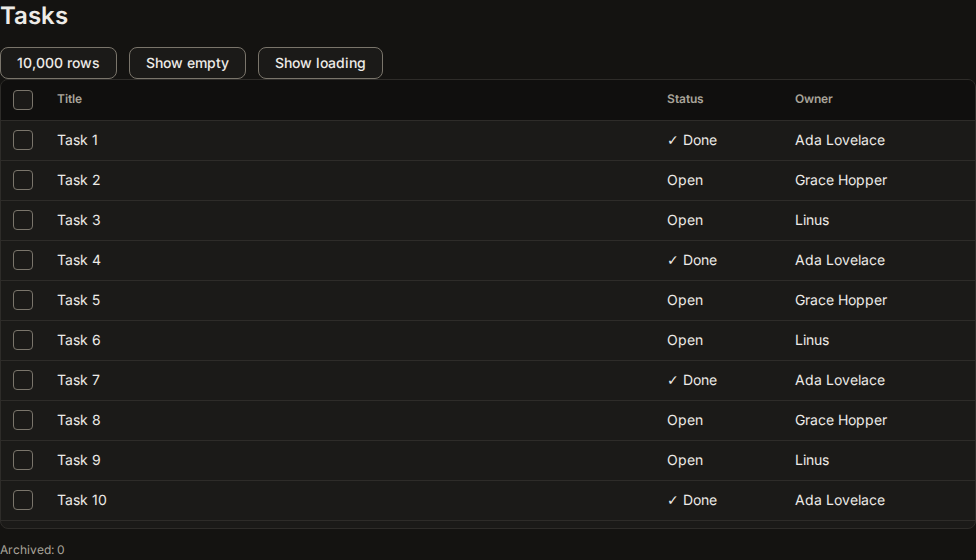
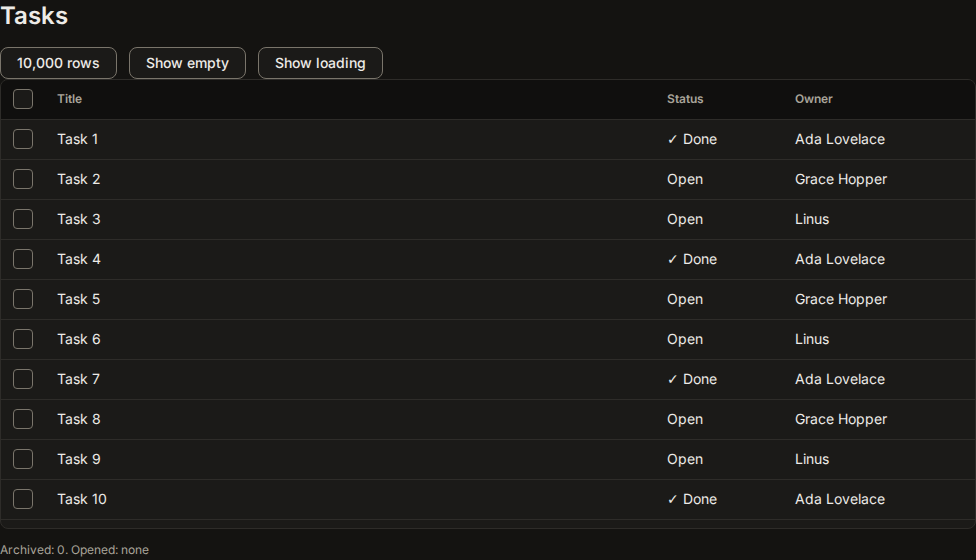
Fix DataTable review findings
Count only selected ids that are still in the rows, so a filter or an
empty list cannot leave a bar that acts on missing rows. Give focus
back to the active row when the bar closes. Make the head and the rows
share one width, so a narrow screen scrolls sideways with aligned
columns. Keep the focused row clear of the bar. Let text fields, selects
and editable cells keep their keys. Add contrast pairs for text and
control borders on a selected row. Add tests for each case.

diff --git a/src/components/data-table.tsx b/src/components/data-table.tsx
@@ -1,4 +1,4 @@
-import { useCallback, useEffect, useId, useLayoutEffect, useMemo, useRef, useState, type CSSProperties, type KeyboardEvent, type ReactNode } from "react";
+import { useCallback, useEffect, useLayoutEffect, useMemo, useRef, useState, type CSSProperties, type KeyboardEvent, type ReactNode } from "react";
 import { cx } from "../cx.js";
 import { Button } from "./button.js";
 import { EmptyState } from "./files.js";
@@ -10,7 +10,7 @@ export interface DataTableColumn<T> {
   /** The column name. Always text, so a screen reader can read it. */
   header: string;
   cell: (row: T) => ReactNode;
-  /** A CSS grid track, for example `12rem`. The default shares the rest of the width. */
+  /** A CSS length, for example `12rem`. The default shares the rest of the width, and is never under 8rem. */
   width?: string;
 }
 
@@ -44,12 +44,14 @@ export interface DataTableProps<T> {
 }
 
 const CHECK_WIDTH = "2.75rem";
+const FLEX_MIN = "8rem";
+const BAR_GAP = 12;
 const PLACEHOLDERS = 8;
 const noRows: readonly never[] = [];
 
 /**
  * A table for many rows. Only the rows in view are in the page, so 10,000 rows scroll smoothly.
- * It is a grid: one tab stop, then arrow keys, Home, End, and Page Up and Down move between rows.
+ * It is a grid. The rows are one tab stop, and arrow keys, Home, End, and Page Up and Down move between them.
  * Space selects a row, Shift with a click or Space selects a range, Enter opens a row, and Escape clears the selection.
  */
 export function DataTable<T>({
@@ -58,7 +60,7 @@ export function DataTable<T>({
 }: DataTableProps<T>) {
   if (label.trim() === "") throw new Error("A data table needs a non-empty label.");
   const [own, setOwn] = useState<ReadonlySet<string>>(defaultSelected ?? new Set());
-  const selected = selectedProp ?? own;
+  const stored = selectedProp ?? own;
   const setSelected = useCallback((next: ReadonlySet<string>) => {
     setOwn(next);
     onSelectedChange?.(next);
@@ -79,12 +81,36 @@ export function DataTable<T>({
     return () => observer.disconnect();
   }, []);
 
+  // Callers often pass an inline getRowId. Keep it in a ref, so a scroll does not read every row again.
+  const idOf = useRef(getRowId);
+  idOf.current = getRowId;
+  const ids = useMemo(() => items.map((row) => idOf.current(row)), [items]);
+  // A selection can outlive its rows, for example after a filter. Only rows that are here count.
+  const selected = useMemo(() => {
+    const live = new Set<string>();
+    for (const id of ids) if (stored.has(id)) live.add(id);
+    return live as ReadonlySet<string>;
+  }, [ids, stored]);
+  const allSelected = count > 0 && selected.size === count;
+  const someSelected = selected.size > 0 && !allSelected;
   const [activeRaw, setActive] = useState(0);
   const active = Math.min(activeRaw, Math.max(0, count - 1));
   const wantFocus = useRef(false);
   const anchor = useRef(0);
   const barVisible = selectable && selected.size > 0 && !loading;
-  const barHeight = barVisible ? 64 : 0;
+  const [barSize, setBarSize] = useState(0);
+  const barHeight = barVisible ? barSize + BAR_GAP : 0;
+  const bar = useRef<HTMLDivElement>(null);
+  // The bar grows when its buttons wrap, so watch its size.
+  useLayoutEffect(() => {
+    const el = bar.current;
+    if (!el) return;
+    const measure = () => setBarSize(el.offsetHeight);
+    measure();
+    const observer = new ResizeObserver(measure);
+    observer.observe(el);
+    return () => observer.disconnect();
+  }, [barVisible]);
 
   const range = windowRange(scrollTop, viewport, rowHeight, count);
   // The row that has focus stays drawn when it scrolls out of view, so focus is not lost.
@@ -102,9 +128,19 @@ export function DataTable<T>({
     el.querySelector<HTMLElement>(`[data-index="${active}"]`)?.focus({ preventScroll: true });
   });
 
-  const ids = useMemo(() => items.map(getRowId), [items, getRowId]);
-  const allSelected = count > 0 && ids.every((id) => selected.has(id));
-  const someSelected = !allSelected && ids.some((id) => selected.has(id));
+  // The bar covers the last rows while it shows. Keep the active row clear of it, and give focus back to the grid when the bar and its focused button go.
+  const barWas = useRef(false);
+  useLayoutEffect(() => {
+    const el = scroller.current;
+    if (barVisible && el) {
+      const next = scrollToRow(active, el.scrollTop, el.clientHeight, rowHeight, rowHeight, barHeight);
+      if (next !== el.scrollTop) el.scrollTop = next;
+    }
+    if (barWas.current && !barVisible && count > 0 && (!document.activeElement || document.activeElement === document.body)) {
+      el?.querySelector<HTMLElement>(`[data-index="${active}"]`)?.focus({ preventScroll: true });
+    }
+    barWas.current = barVisible;
+  }, [barVisible, barHeight]); // eslint-disable-line react-hooks/exhaustive-deps
   const headerCheck = useRef<HTMLInputElement>(null);
   useEffect(() => {
     if (headerCheck.current) headerCheck.current.indeterminate = someSelected;
@@ -132,6 +168,8 @@ export function DataTable<T>({
     const target = event.target as HTMLElement;
     const row = target.closest<HTMLElement>('[role="row"][data-index]');
     if (!row || count === 0) return;
+    // A text field, select, or editable cell keeps its own keys.
+    if (target.isContentEditable || target instanceof HTMLTextAreaElement || target instanceof HTMLSelectElement) return;
     if (target instanceof HTMLInputElement && target.type !== "checkbox") return;
     const index = Number(row.dataset.index);
     const page = Math.max(1, Math.floor((viewport - rowHeight) / rowHeight) - 1);
@@ -160,9 +198,10 @@ export function DataTable<T>({
     event.preventDefault();
   };
 
-  const cols = [selectable ? CHECK_WIDTH : null, ...columns.map((c) => c.width ?? "minmax(0, 1fr)")].filter(Boolean).join(" ");
-  const style = { "--agd-dt-cols": cols, "--agd-dt-row": `${rowHeight}px`, "--agd-dt-height": typeof height === "number" ? `${height}px` : height } as CSSProperties;
-  const headerId = useId();
+  const tracks = [selectable ? CHECK_WIDTH : null, ...columns.map((c) => c.width ?? `minmax(${FLEX_MIN}, 1fr)`)].filter(Boolean).join(" ");
+  // The head and every row share one width. It is the sum of the minimums, so a narrow screen scrolls sideways.
+  const minWidth = `calc(${[selectable ? CHECK_WIDTH : null, ...columns.map((c) => c.width ?? FLEX_MIN)].filter(Boolean).join(" + ")})`;
+  const style = { "--agd-dt-cols": tracks, "--agd-dt-min": minWidth, "--agd-dt-row": `${rowHeight}px`, "--agd-dt-height": typeof height === "number" ? `${height}px` : height } as CSSProperties;
   const nameOf = (row: T) => rowLabel?.(row) ?? getRowId(row);
   const status = loading ? "Loading rows" : selectable && selected.size > 0 ? `${selected.size} of ${count} selected` : "";
 
@@ -183,6 +222,7 @@ export function DataTable<T>({
           onScroll={(event) => setScrollTop(event.currentTarget.scrollTop)}
           onKeyDown={onKeyDown}
         >
+          <div role="presentation" className="agd-datatable__inner">
           <div role="rowgroup" className="agd-datatable__head">
             <div role="row" className="agd-datatable__row" aria-rowindex={1}>
               {selectable && (
@@ -198,7 +238,7 @@ export function DataTable<T>({
                   />
                 </div>
               )}
-              {columns.map((c) => <div key={c.id} role="columnheader" id={`${headerId}-${c.id}`} className="agd-datatable__cell">{c.header}</div>)}
+              {columns.map((c) => <div key={c.id} role="columnheader" className="agd-datatable__cell">{c.header}</div>)}
             </div>
           </div>
           <div role="rowgroup" className="agd-datatable__body" style={{ height: (loading ? PLACEHOLDERS : count) * rowHeight + barHeight }}>
@@ -245,10 +285,11 @@ export function DataTable<T>({
                   );
                 })}
           </div>
+          </div>
         </div>
         {!loading && count === 0 && <div className="agd-datatable__state">{empty ?? <EmptyState title="No rows" description="Nothing is here yet." />}</div>}
         {barVisible && (
-          <div role="region" aria-label="Bulk actions" className="agd-datatable__bar">
+          <div ref={bar} role="region" aria-label="Bulk actions" className="agd-datatable__bar">
             <span className="agd-datatable__bar-count" aria-hidden="true">{selected.size} selected</span>
             <div className="agd-datatable__bar-actions">{bulkActions?.(selected)}</div>
             <Button size="sm" variant="ghost" onClick={() => setSelected(new Set())}>Clear selection</Button>

diff --git a/e2e/data.ui.spec.ts b/e2e/data.ui.spec.ts
@@ -72,7 +72,65 @@ test("select all and a bulk action", async ({ page }) => {
   await expect(bar).toContainText("10000 selected");
   await bar.getByRole("button", { name: "Archive" }).click();
   await expect(page.locator("#archived")).toHaveText("10000");
-  await page.getByRole("checkbox", { name: "Select Task 3", exact: true }).click({ modifiers: ["Shift"] });
   await bar.getByRole("button", { name: "Clear selection" }).click();
   await expect(bar).toHaveCount(0);
+});
+
+test("Shift selects a range from the last row picked", async ({ page }) => {
+  await page.goto("/data");
+  await page.getByRole("checkbox", { name: "Select Task 2", exact: true }).click();
+  await page.getByRole("checkbox", { name: "Select Task 5", exact: true }).click({ modifiers: ["Shift"] });
+  await expect(page.getByRole("region", { name: "Bulk actions" })).toContainText("4 selected");
+  await expect(page.getByRole("row", { name: /Task 4\b/ })).toHaveAttribute("aria-selected", "true");
+  await expect(page.getByRole("row", { name: /Task 6\b/ })).toHaveAttribute("aria-selected", "false");
+});
+
+test("Page Down moves by a page and Enter opens the row", async ({ page }) => {
+  await page.goto("/data");
+  await page.locator('[data-index="0"]').focus();
+  await page.keyboard.press("PageDown");
+  const index = Number(await page.evaluate(() => document.activeElement?.getAttribute("data-index")));
+  expect(index).toBeGreaterThan(4);
+  await page.keyboard.press("Enter");
+  await expect(page.locator("#opened")).toHaveText(`Task ${index + 1}`);
+  await page.keyboard.press("PageUp");
+  await expect(page.locator('[data-index="0"]')).toBeFocused();
+});
+
+test("a selection of rows that are gone does not show a bar", async ({ page }) => {
+  await page.goto("/data");
+  await page.getByRole("checkbox", { name: "Select Task 1", exact: true }).click();
+  await page.getByRole("button", { name: "Show empty" }).click();
+  await expect(page.getByRole("heading", { name: "No rows" })).toBeVisible();
+  await expect(page.getByRole("region", { name: "Bulk actions" })).toHaveCount(0);
+});
+
+test("clearing the selection from the bar keeps focus in the table", async ({ page }) => {
+  await page.goto("/data");
+  await page.locator('[data-index="0"]').focus();
+  await page.keyboard.press("Space");
+  await page.keyboard.press("Tab");
+  await page.keyboard.press("Tab");
+  await expect(page.getByRole("button", { name: "Clear selection" })).toBeFocused();
+  await page.keyboard.press("Enter");
+  await expect(page.locator('[data-index="0"]')).toBeFocused();
+});
+
+test("the bar does not cover the row that has focus", async ({ page }) => {
+  await page.goto("/data");
+  await page.locator('[data-index="0"]').focus();
+  for (let i = 0; i < 8; i++) await page.keyboard.press("ArrowDown");
+  await page.keyboard.press("Space");
+  const row = await page.locator('[data-index="8"]').boundingBox();
+  const bar = await page.getByRole("region", { name: "Bulk actions" }).boundingBox();
+  expect((row?.y ?? 0) + (row?.height ?? 0)).toBeLessThanOrEqual(bar?.y ?? 0);
+});
+
+test("on a narrow screen the headers line up with the cells", async ({ page }) => {
+  await page.setViewportSize({ width: 320, height: 640 });
+  await page.goto("/data");
+  const grid = page.getByRole("grid", { name: "Tasks" });
+  const header = await grid.getByRole("columnheader", { name: "Owner" }).boundingBox();
+  const cell = await grid.getByRole("row", { name: /Task 1\b/ }).getByRole("gridcell").last().boundingBox();
+  expect(Math.abs((header?.x ?? 0) - (cell?.x ?? 99))).toBeLessThan(1);
 });

diff --git a/src/styles/components.css b/src/styles/components.css
@@ -691,9 +691,11 @@
 .agd-datatable { display: grid; gap: var(--agd-space-3); min-width: 0; }
 .agd-datatable__frame { position: relative; border: 1px solid var(--agd-color-border); border-radius: var(--agd-radius-md); background: var(--agd-color-surface); overflow: hidden; }
 .agd-datatable__scroller { height: var(--agd-dt-height); overflow: auto; overscroll-behavior: contain; }
-.agd-datatable__head { position: sticky; top: 0; z-index: 1; min-width: max-content; background: var(--agd-color-surface-sunken); border-bottom: 1px solid var(--agd-color-border); }
-.agd-datatable__row { display: grid; grid-template-columns: var(--agd-dt-cols); align-items: center; height: var(--agd-dt-row); }
-.agd-datatable__body { position: relative; min-width: max-content; }
+.agd-datatable__inner { min-width: var(--agd-dt-min); }
+.agd-datatable__head { position: sticky; top: 0; z-index: 1; background: var(--agd-color-surface-sunken); }
+.agd-datatable__head .agd-datatable__row { border-bottom: 1px solid var(--agd-color-border); }
+.agd-datatable__row { box-sizing: border-box; display: grid; grid-template-columns: var(--agd-dt-cols); align-items: center; height: var(--agd-dt-row); }
+.agd-datatable__body { position: relative; }
 .agd-datatable__row--body { position: absolute; inset-inline: 0; border-bottom: 1px solid var(--agd-color-border); }
 .agd-datatable__row--body:hover { background: var(--agd-color-surface-sunken); }
 .agd-datatable__row--body.is-selected { background: var(--agd-color-accent-subtle); }
@@ -712,5 +714,5 @@
 .agd-datatable__bar-count { font-size: var(--agd-font-size-sm); font-weight: var(--agd-font-weight-medium); }
 .agd-datatable__bar-actions { display: flex; flex: 1; flex-wrap: wrap; gap: var(--agd-space-2); }
 @media (forced-colors: active) {
-  .agd-datatable__row--body.is-selected { outline: 2px solid Highlight; outline-offset: -2px; }
+  .agd-datatable__row--body.is-selected { border-inline-start: 0.25rem solid Highlight; }
 }

diff --git a/src/tokens/tokens.ts b/src/tokens/tokens.ts
@@ -127,7 +127,7 @@ const status = (name: "danger" | "warning" | "success"): ContrastPair[] => [
 
 // Every pair the components use. Disabled controls are exempt by WCAG 1.4.3.
 export const contrastPairs: readonly ContrastPair[] = deepFreeze([
-  ...text("text", surfaces, "body text"),
+  ...text("text", [...surfaces, "accent-subtle"], "body text, and text on a selected row"),
   ...text("text-muted", surfaces, "secondary text and placeholders"),
   ...text("text-on-accent", ["accent", "accent-hover"], "text on a filled accent control"),
   ...text("accent-text", ["accent-subtle", ...surfaces], "accent text and links"),
@@ -135,7 +135,7 @@ export const contrastPairs: readonly ContrastPair[] = deepFreeze([
   ...status("danger"),
   ...status("warning"),
   ...status("success"),
-  ...ui("border-strong", surfaces, "control borders (WCAG 1.4.11)"),
+  ...ui("border-strong", [...surfaces, "accent-subtle"], "control borders (WCAG 1.4.11)"),
   ...ui("focus", [...surfaces, "accent-subtle", "agent-subtle", "danger-subtle", "warning-subtle", "success-subtle"], "focus ring (WCAG 1.4.11)"),
   ...ui("accent", ["accent-subtle", ...surfaces], "accent marks and checked controls"),
   ...ui("agent", ["agent-subtle", ...surfaces], "agent avatar outline"),

diff --git a/src/demo/data-page.tsx b/src/demo/data-page.tsx
@@ -23,6 +23,7 @@ export function DataPage() {
   const [state, setState] = useState<"ready" | "loading">("ready");
   const rows = useMemo(() => makeTasks(size), [size]);
   const [removed, setRemoved] = useState(0);
+  const [opened, setOpened] = useState("none");
   return (
     <DemoShell title="Data table" description="Virtualized rows, keyboard navigation, bulk select, and loading and empty states.">
       <section aria-labelledby="demo-data-h" id="demo-data">
@@ -39,10 +40,11 @@ export function DataPage() {
           getRowId={(t) => t.id}
           rowLabel={(t) => t.title}
           loading={state === "loading"}
+          onRowActivate={(t) => setOpened(t.title)}
           selectable
           bulkActions={(ids) => <Button size="sm" onClick={() => setRemoved(ids.size)}>Archive</Button>}
         />
-        <p className="demo-muted demo-note">Archived: <span id="archived">{removed}</span></p>
+        <p className="demo-muted demo-note">Archived: <span id="archived">{removed}</span>. Opened: <span id="opened">{opened}</span></p>
       </section>
     </DemoShell>
   );
